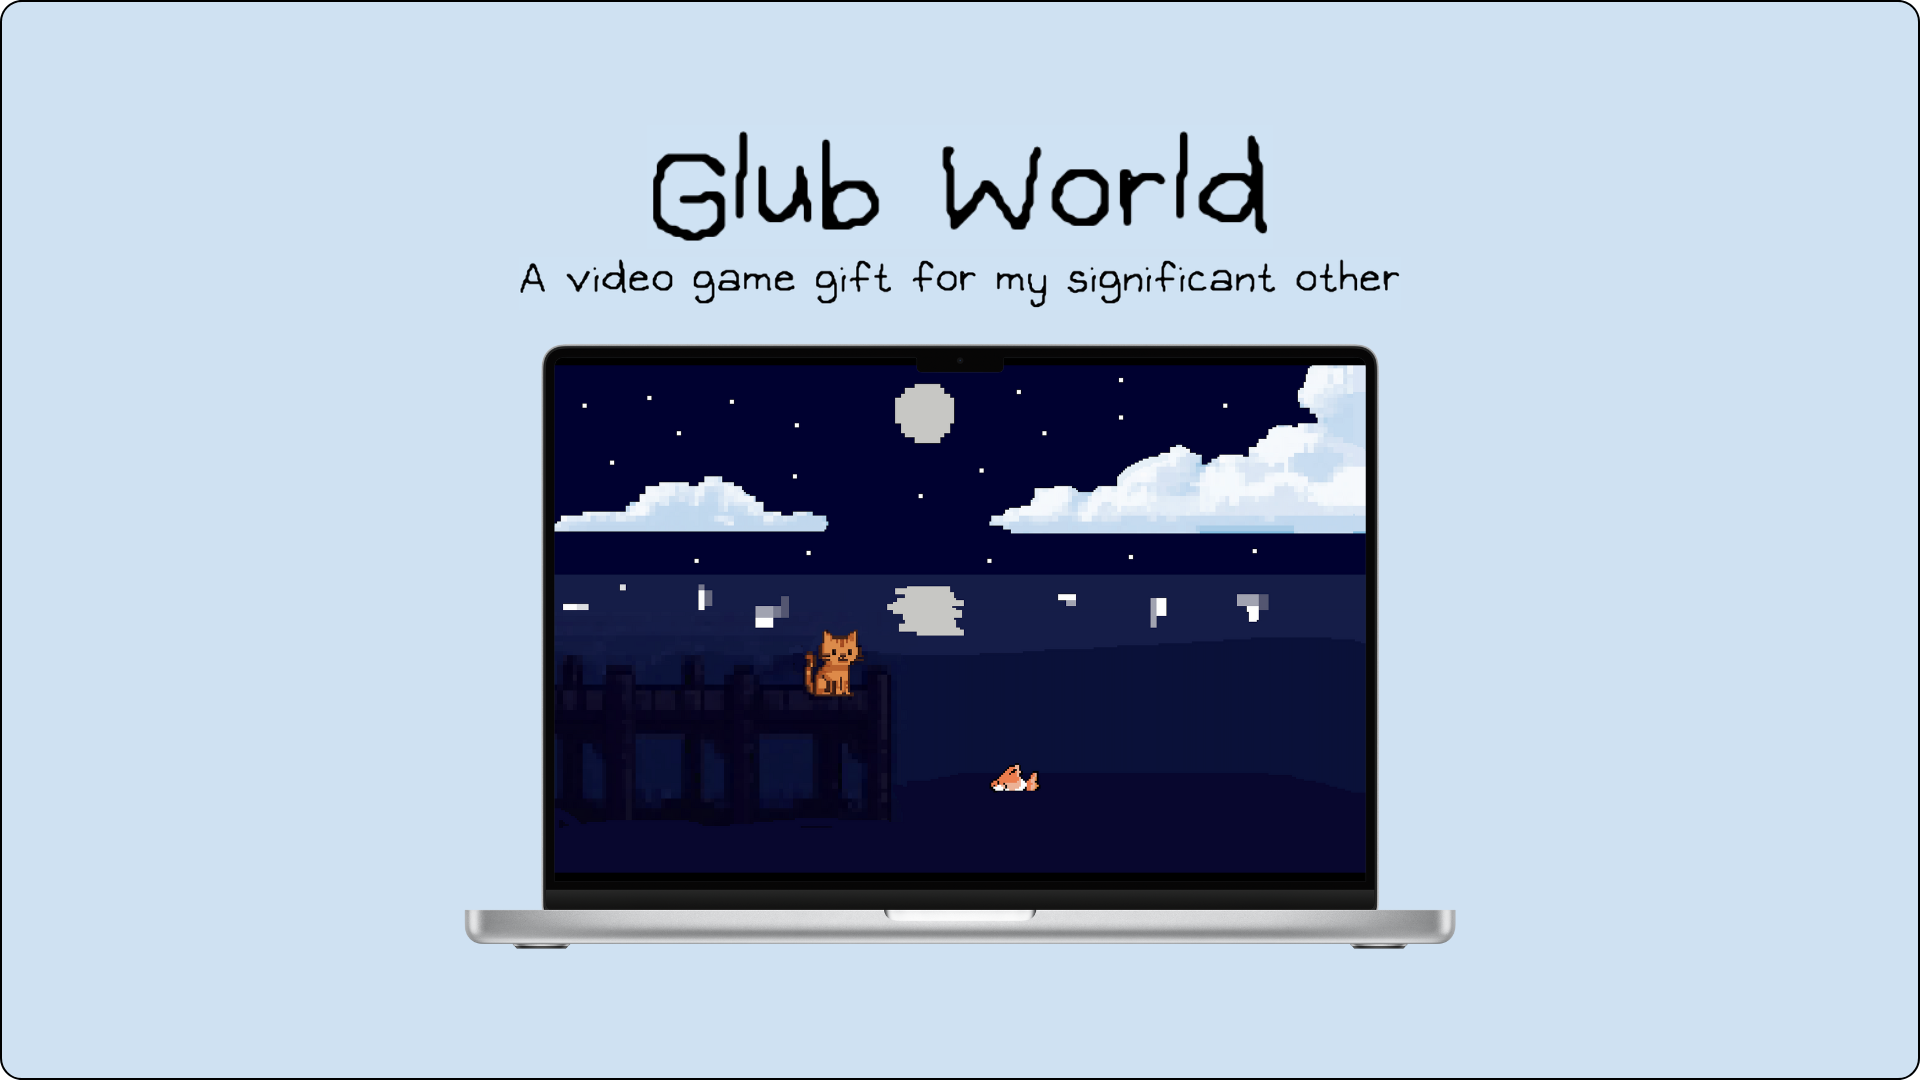
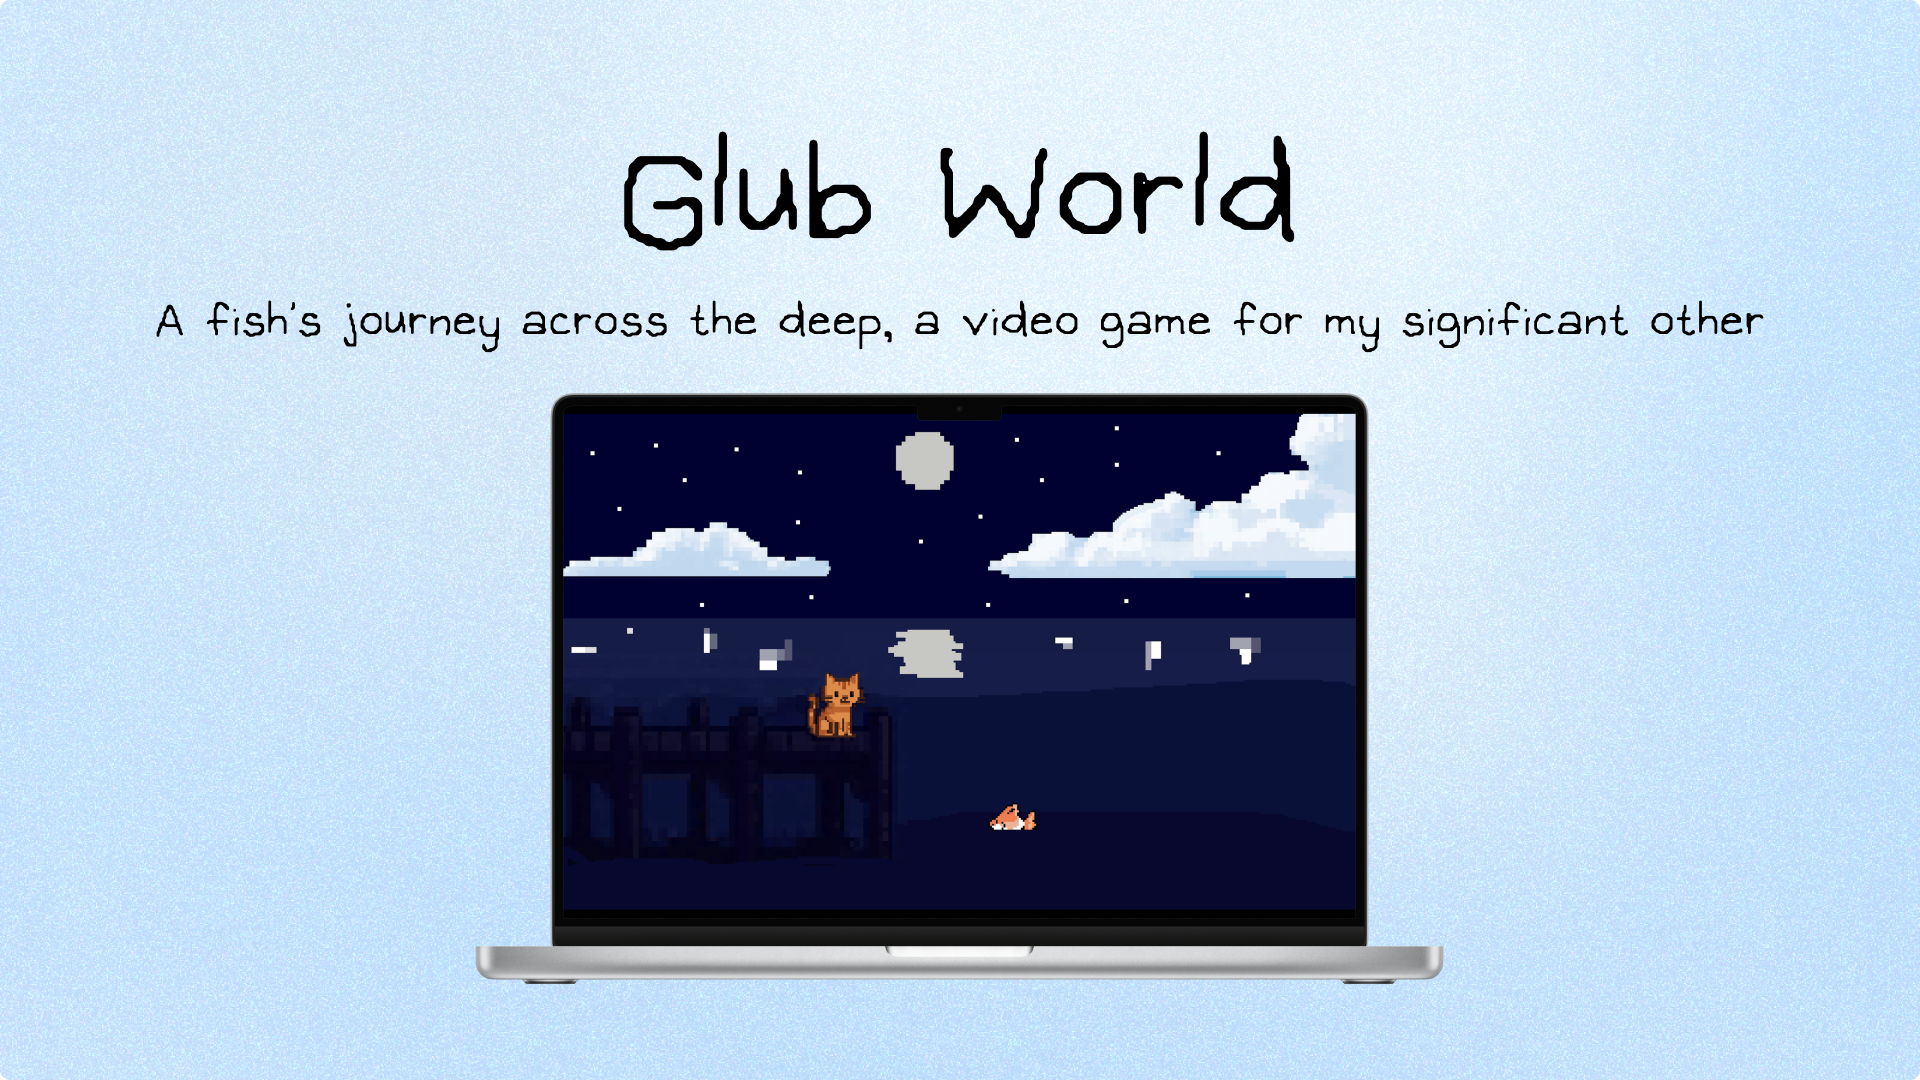
new thumbanils

diff --git a/src/data/project.ts b/src/data/project.ts
@@ -1,5 +1,6 @@
 export interface Project {
   title: string;
+  subheading: string;
   description: string;
   thumbnail: string;
   link: string;
@@ -9,32 +10,45 @@ export interface Project {
 export const projects: Project[] = [
   {
     title: "Purin Car",
+    subheading: "MOBILE/WEB APP · FULL STACK DEVELOPMENT · FLUTTER/REACT",
     description:
-      "Android application using Kotlin, Room Database and Jetpack Compose Android app for tracking vehicle maintenance intervals with a reactive UI.",
+      "Software Engineer Intern",
+    thumbnail: "/portfolio/projects/smyze/thumbnail.png",
+    link: "/project/smyze",
+    images: [],
+  },
+  {
+    title: "Purin Car",
+    subheading: "MOBILE APP · JETPACK COMPOSE · FULL STACK DEVELOPMENT",
+    description:
+      "A reliable assistant for your vehicle’s health and longevity",
     thumbnail: "/portfolio/projects/purin_car/thumbnail.png",
     link: "/project/purin-car",
     images: [],
   },
   {
     title: "Glub World",
+    subheading: "WEB APP · VIDEO GAME · FULL STACK DEVELOPMENT",
     description:
-      "Video game website using HTML, JavaScript, and CSS with AWS for my significant other.",
+      "A fish’s brave journey across the deep, a video game for my significant other",
     thumbnail: "/portfolio/projects/glub_world/thumbnail.png",
     link: "/project/glub-world",
     images: [],
   },
   {
     title: "Fabflix",
+    subheading: "WEB APP · AWS · FULL STACK DEVELOPMENT",
     description:
-      "Movie catalog website using Java Servlets, MySQL, HTML, JavaScript/jQuery, and CSS with AWS, Maven, and Docker.",
+      "Connecting you with films through an expansive cinematic catalog",
     thumbnail: "/portfolio/projects/fabflix/thumbnail.png",
     link: "/project/fabflix",
     images: [],
   },
   {
     title: "Guidance Glasses",
+    subheading: "EMBEDDED SYSTEMS · COMPUTER VISION · MACHINE LEARNING",
     description:
-      "A pair of glasses that can assist the visually impaired to navigate urban environments by providing information about their surroundings via haptic feedback.",
+      "Helping the visually impaired make the world feel a little more navigatable",
     thumbnail: "/portfolio/projects/guidance_glasses/thumbnail.png",
     link: "/project/guidance-glasses",
     images: [],

diff --git a/src/components/project/ProjectCard.tsx b/src/components/project/ProjectCard.tsx
@@ -7,6 +7,7 @@ interface ProjectCardItemProps extends Project {
 
 function FaturedProjectCard({
   title,
+  subheading,
   description,
   thumbnail,
   link,
@@ -23,6 +24,7 @@ function FaturedProjectCard({
       </div>
       <div className="project-content">
         <h3 className="project-title">{title}</h3>
+        <p className="description">{subheading}</p>
         <p className="description">{description}</p>
         <Link to={link} className="project-link-action">
           read more →
@@ -47,6 +49,7 @@ export function FeaturedProjectCards() {
 
 function AllProjectCard({
   title,
+  subheading,
   description,
   thumbnail,
   link,
@@ -58,6 +61,7 @@ function AllProjectCard({
       </div>
       <div className="project-content">
         <h3 className="project-title">{title}</h3>
+        <p className="description">{subheading}</p>
         <p className="description">{description}</p>
         <Link to={link} className="project-link-action">
           read more →

diff --git a/src/App.css b/src/App.css
@@ -239,7 +239,7 @@ header {
 
 .project-cards {
   width: 100%;
-  max-width: 1400px;
+  max-width: 1600px;
   padding-left: 3rem;
   padding-right: 3rem;
   margin: 0 auto;
@@ -251,7 +251,7 @@ header {
   flex-direction: column;
   align-items: center;
   justify-content: center;
-  gap: 40px;
+  gap: 30px;
   margin-bottom: 120px;
   width: 100%;
 }
@@ -264,7 +264,6 @@ header {
 
 .project-thumbnail {
   width: fit-content;
-  max-width: 400px;
   object-fit: cover;
   display: block;
 }
